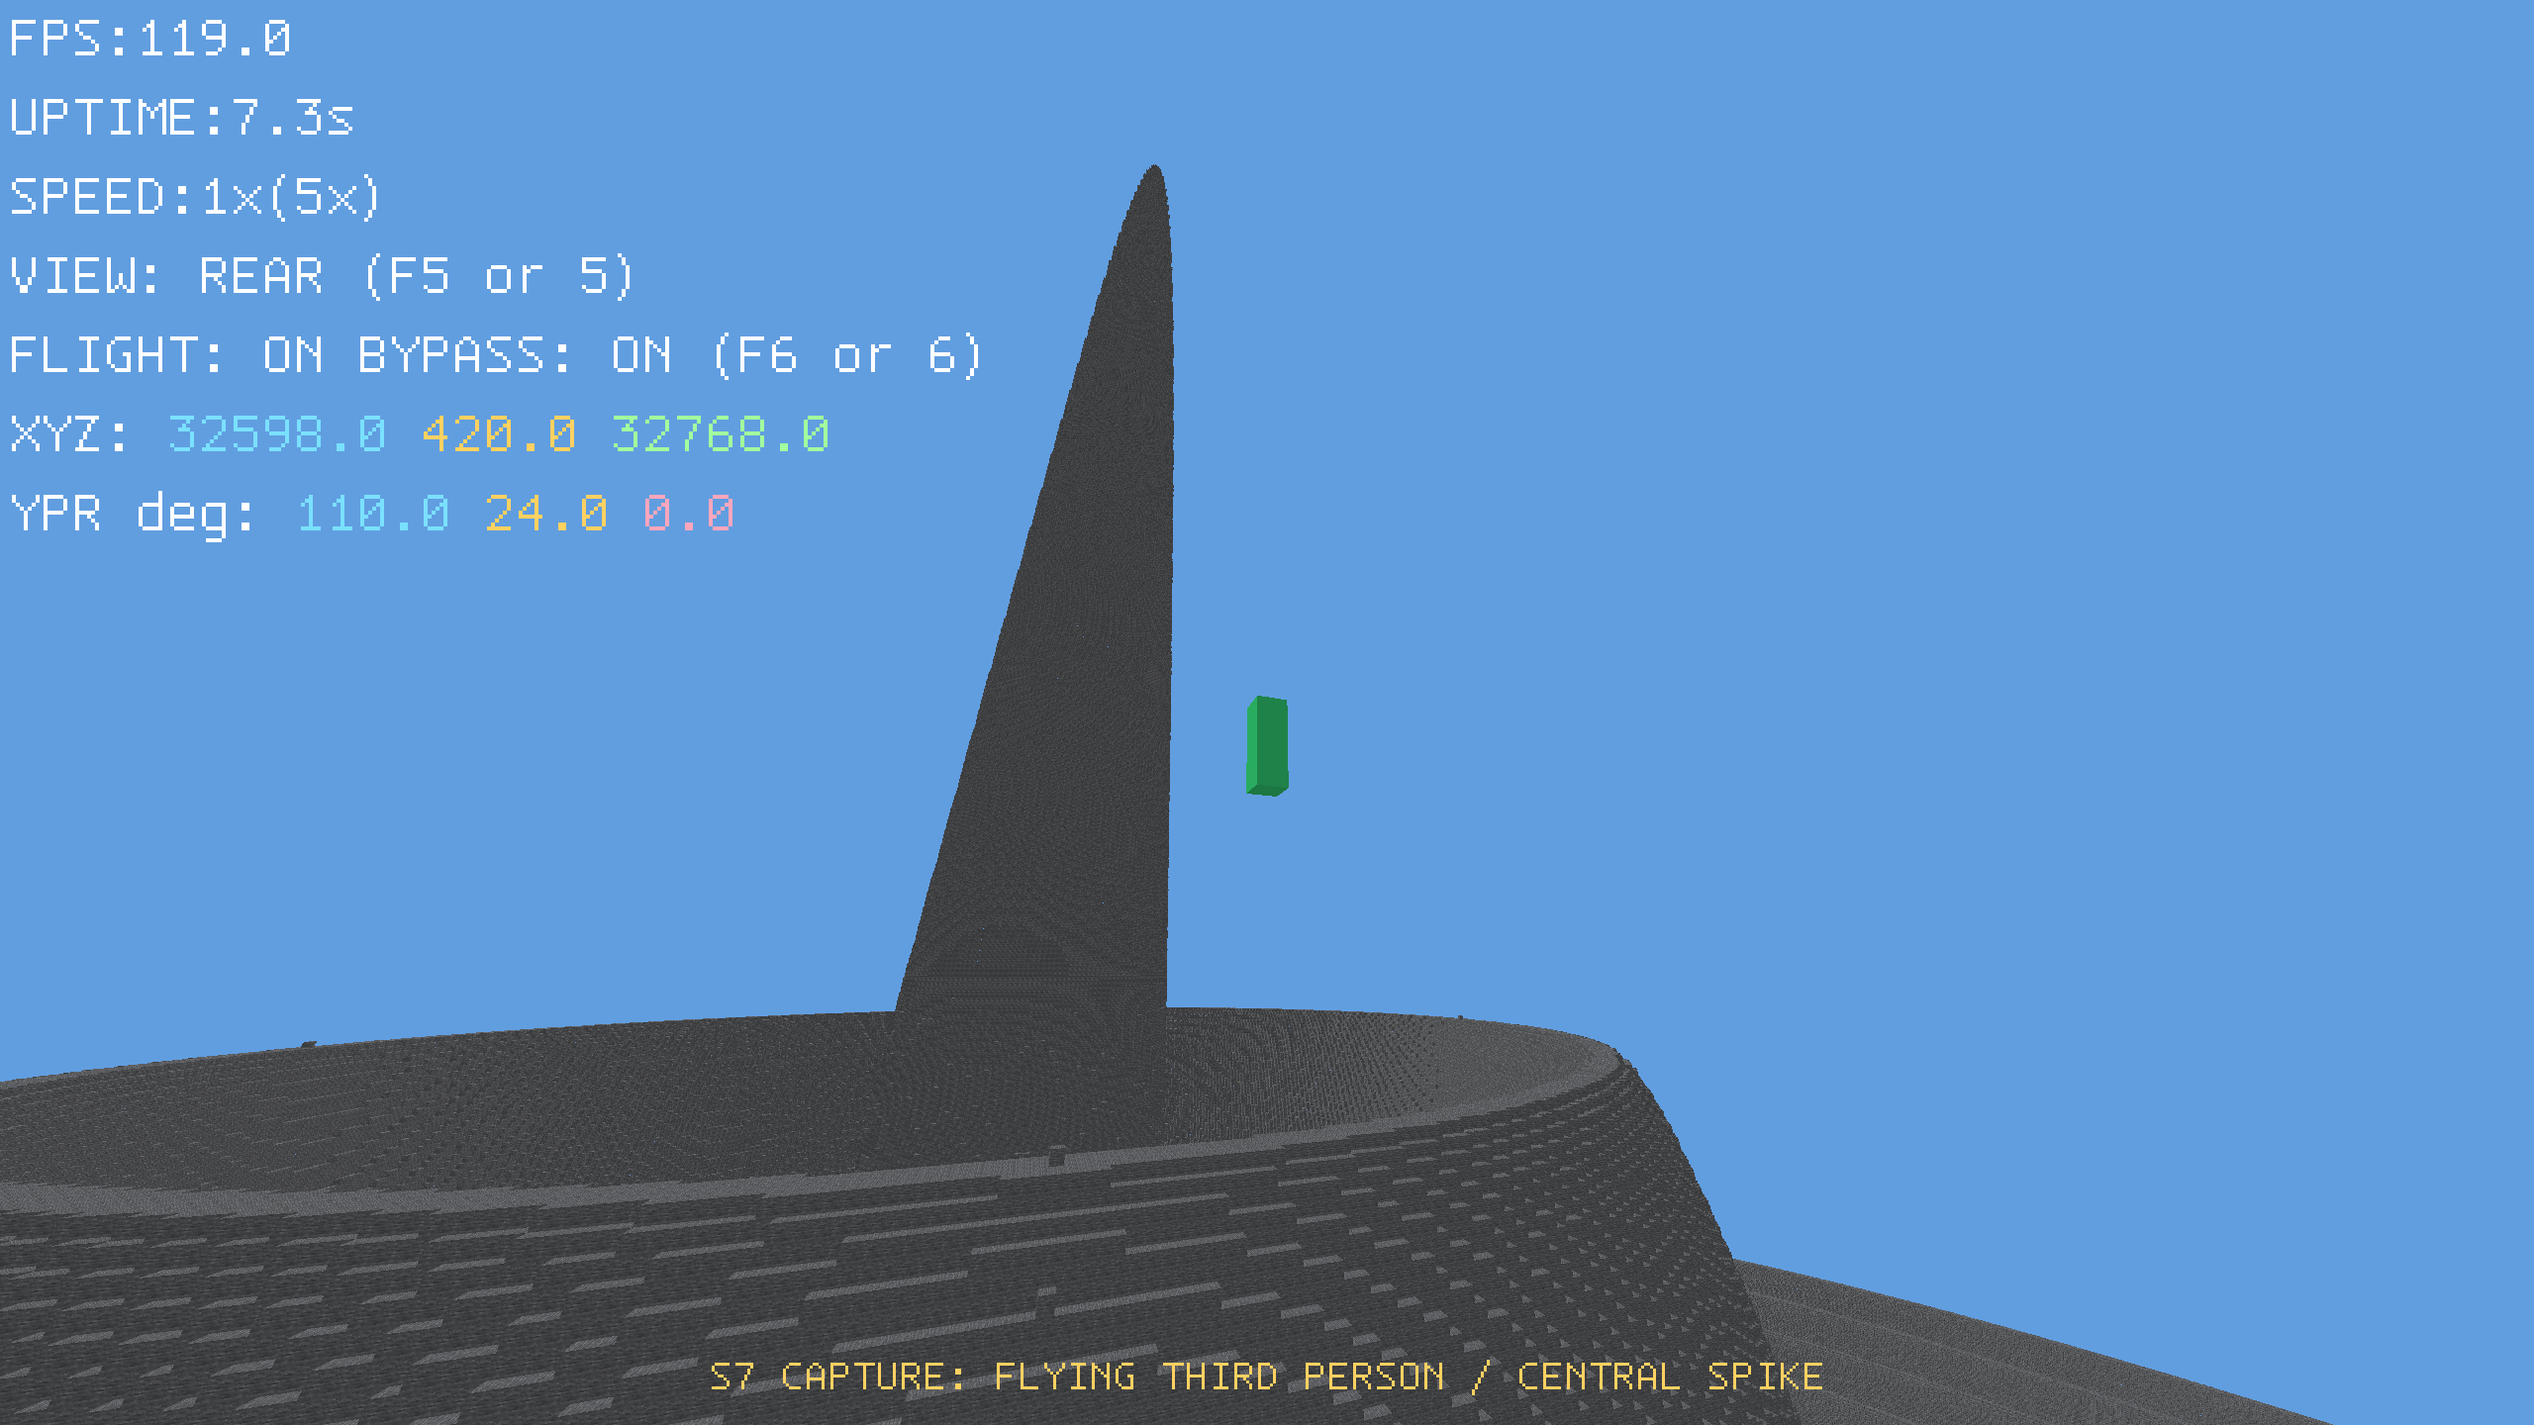
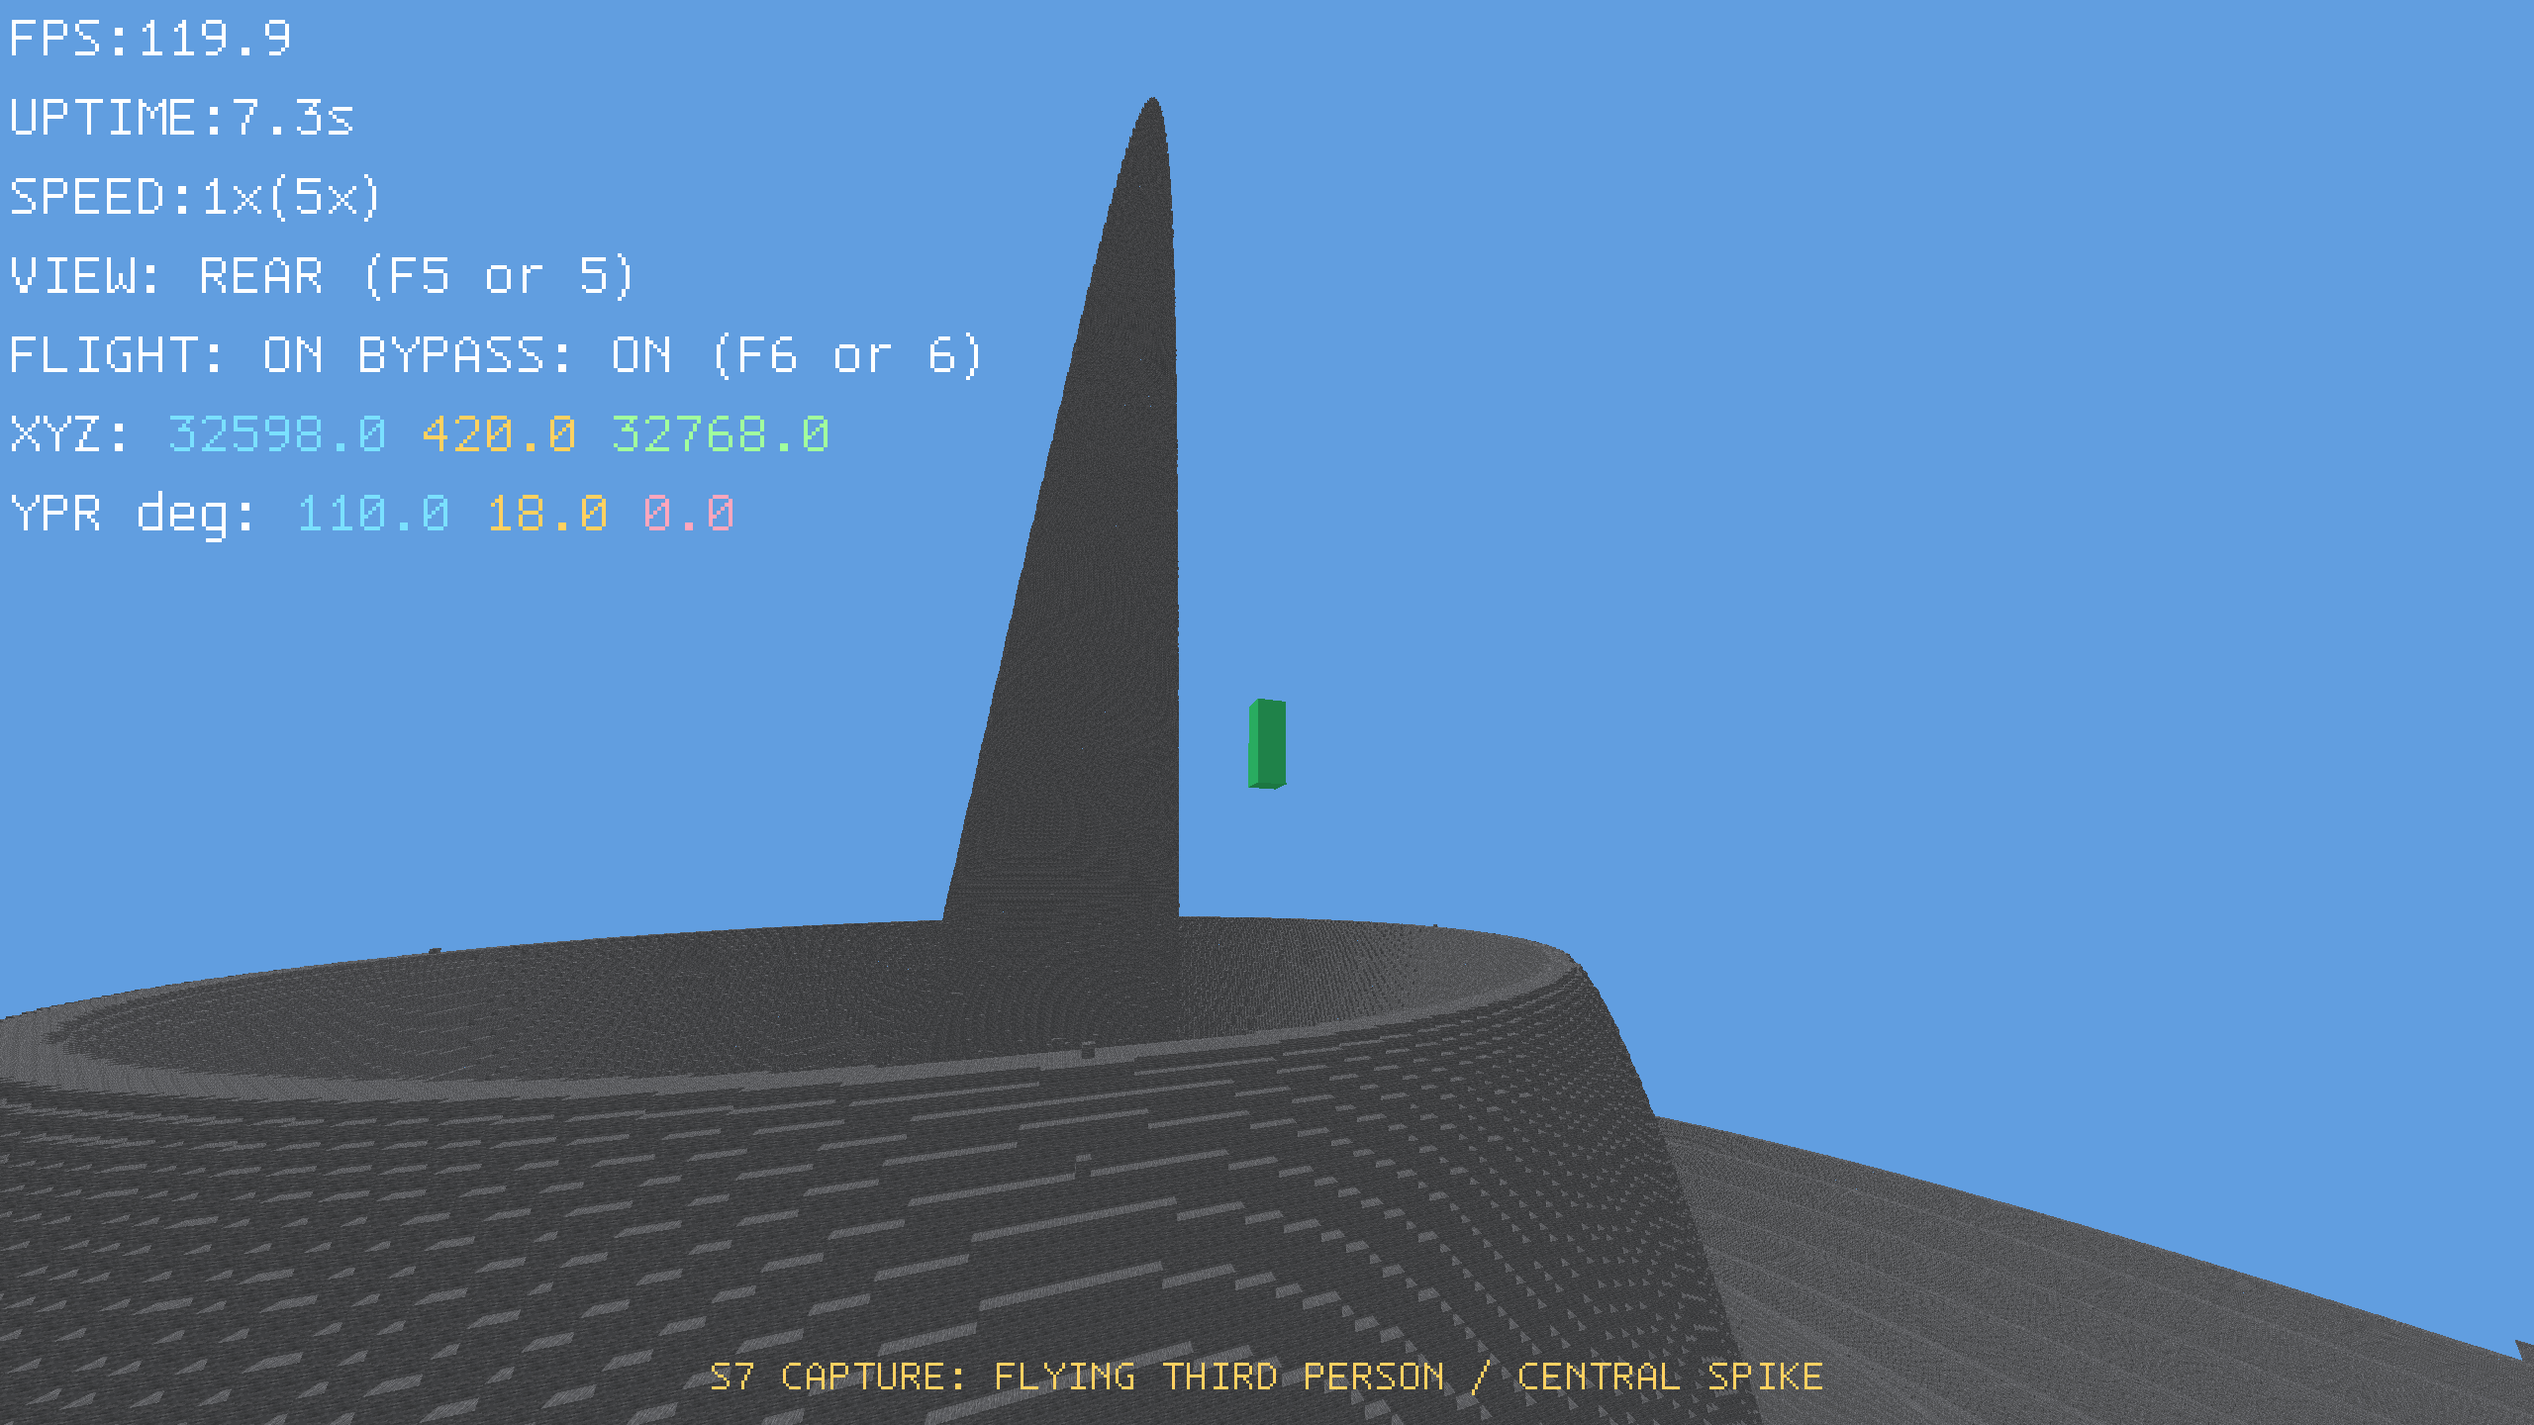
Fix S7 central-spike capture framing
Task-ID: MC-AI-0398

diff --git a/tests/client/player_client_capture_plan_tests.cpp b/tests/client/player_client_capture_plan_tests.cpp
@@ -40,8 +40,8 @@ TEST(PlayerClientCapturePlanTest, FramesTheCentralSpikeAndFirstRingTogether)
     );
     EXPECT_EQ(PREVIOUS_PLAYER_HEIGHT - PLAYER_HEIGHT, 20);
     EXPECT_EQ(plan.look_angles.yaw_degrees, 110.0);
-    EXPECT_EQ(plan.look_angles.pitch_degrees, 24.0);
-    EXPECT_EQ(plan.vertical_fov_degrees, 100.0);
+    EXPECT_EQ(plan.look_angles.pitch_degrees, 18.0);
+    EXPECT_EQ(plan.vertical_fov_degrees, 105.0);
     EXPECT_EQ(plan.rear_camera_distance, 12.0);
 
     shared::TerrainGenerator const terrain;
@@ -67,8 +67,11 @@ TEST(PlayerClientCapturePlanTest, FramesTheCentralSpikeAndFirstRingTogether)
     };
     auto const projection = camera.projectionMatrix(FRAME_WIDTH, FRAME_HEIGHT);
     ASSERT_TRUE(projection.has_value());
+    auto const clip_coordinates = [&](glm::vec4 const world_point) {
+        return *projection * camera.viewMatrix() * world_point;
+    };
     auto const projected = [&](glm::vec4 const world_point) {
-        glm::vec4 const clip = *projection * camera.viewMatrix() * world_point;
+        glm::vec4 const clip = clip_coordinates(world_point);
         return glm::vec3(clip) / clip.w;
     };
     glm::vec3 const peak = projected({
@@ -83,6 +86,27 @@ TEST(PlayerClientCapturePlanTest, FramesTheCentralSpikeAndFirstRingTogether)
         static_cast<float>(far_ring_x), static_cast<float>(WORLD_CENTER),
         static_cast<float>(far_ring_height), 1.0F,
     });
+    static constexpr int32_t BACKGROUND_RADIUS = FIRST_RING_RADIUS * 2;
+    glm::vec4 const background_clip = clip_coordinates({
+        static_cast<float>(WORLD_CENTER), static_cast<float>(WORLD_CENTER - BACKGROUND_RADIUS),
+        static_cast<float>(terrain.heightAt(WORLD_CENTER, WORLD_CENTER - BACKGROUND_RADIUS)), 1.0F,
+    });
+    glm::vec3 const background = glm::vec3(background_clip) / background_clip.w;
+    glm::dvec3 const camera_position = camera.pose().position;
+    double const segment_x = static_cast<double>(WORLD_CENTER) - camera_position.x;
+    double const segment_y = static_cast<double>(WORLD_CENTER - BACKGROUND_RADIUS) - camera_position.y;
+    double const camera_radius_x = camera_position.x - WORLD_CENTER;
+    double const camera_radius_y = camera_position.y - WORLD_CENTER;
+    double const nearest_segment_parameter = std::clamp(
+        -(camera_radius_x * segment_x + camera_radius_y * segment_y)
+            / (segment_x * segment_x + segment_y * segment_y),
+        0.0,
+        1.0
+    );
+    double const nearest_background_sightline_radius = std::hypot(
+        camera_radius_x + nearest_segment_parameter * segment_x,
+        camera_radius_y + nearest_segment_parameter * segment_y
+    );
     EXPECT_GT(near_ring.y, 0.0F);
     EXPECT_GT(far_ring.y, 0.0F);
     EXPECT_LT(peak.y, 0.0F);
@@ -92,6 +116,15 @@ TEST(PlayerClientCapturePlanTest, FramesTheCentralSpikeAndFirstRingTogether)
     EXPECT_LT(std::abs(far_ring.y), 0.9F);
     EXPECT_LT(std::abs(peak.x), 0.9F);
     EXPECT_LT(std::abs(peak.y), 0.9F);
+    EXPECT_GT(background_clip.w, 0.0F);
+    EXPECT_GE(background.z, 0.0F);
+    EXPECT_LE(background.z, 1.0F);
+    EXPECT_GT(terrain.heightAt(WORLD_CENTER, WORLD_CENTER - BACKGROUND_RADIUS), 0U);
+    EXPECT_GT(nearest_background_sightline_radius, FIRST_RING_RADIUS);
+    EXPECT_GT(background.x, 0.25F);
+    EXPECT_LT(background.x, 0.8F);
+    EXPECT_GT(background.y, 0.55F);
+    EXPECT_LT(background.y, 0.85F);
 }
 
 TEST(PlayerClientCapturePlanTest, FramesTheUpperFirstRingAsAnAscendingSlope)

diff --git a/tests/acceptance/player_playtest_capture_test.py b/tests/acceptance/player_playtest_capture_test.py
@@ -79,7 +79,7 @@ class PlayerPlaytestCaptureTest(unittest.TestCase):
         self.assertLessEqual(int(started.group(1)), 900)
         self.assertIn("Capture sweep complete: headings=16", output)
 
-    def assert_labeled_terrain_capture(self, image):
+    def assert_labeled_terrain_capture(self, image, require_background_terrain=False):
         width, height, pixels = read_ppm(image)
         if os.environ.get("MC_S7_REQUIRE_2560X1440") == "1":
             self.assertEqual((width, height), (2560, 1440))
@@ -90,14 +90,21 @@ class PlayerPlaytestCaptureTest(unittest.TestCase):
         terrain_pixels = 0
         white_hud_pixels = 0
         title_pixels = 0
+        beyond_ring_terrain_pixels = 0
         for pixel_index, offset in enumerate(range(0, len(pixels), 3)):
             red, green, blue = pixels[offset:offset + 3]
+            x = pixel_index % width
+            y = pixel_index // width
             if red < 150 and green < 150 and blue < 150:
                 terrain_pixels += 1
                 if len(colors) < 512:
                     colors.add((red, green, blue))
-            x = pixel_index % width
-            y = pixel_index // width
+                if (
+                    require_background_terrain
+                    and x >= 3 * width // 4
+                    and 78 * height // 100 <= y < 94 * height // 100
+                ):
+                    beyond_ring_terrain_pixels += 1
             if x < width // 3 and y < height // 3 and red > 220 and green > 220 and blue > 220:
                 white_hud_pixels += 1
             if red > 200 and green > 150 and blue < 180:
@@ -109,6 +116,11 @@ class PlayerPlaytestCaptureTest(unittest.TestCase):
         self.assertGreater(len(colors), 24)
         self.assertGreater(white_hud_pixels, 100)
         self.assertGreater(title_pixels, 100)
+        if require_background_terrain:
+            background_region_area = (width - 3 * width // 4) * (
+                94 * height // 100 - 78 * height // 100
+            )
+            self.assertGreater(beyond_ring_terrain_pixels, background_region_area // 10)
 
     def test_real_networked_client_renders_terrain_texture_and_hud(self):
         port = free_udp_port()
@@ -143,7 +155,7 @@ class PlayerPlaytestCaptureTest(unittest.TestCase):
                 self.assertEqual(client.returncode, 0, client.stdout + client.stderr)
                 self.assertLess(time.monotonic() - started, 1200.0)
                 self.assert_full_radius_sweep(client, expected_tiles=16241)
-                self.assert_labeled_terrain_capture(image)
+                self.assert_labeled_terrain_capture(image, require_background_terrain=True)
             finally:
                 if server.poll() is None:
                     server.terminate()

diff --git a/src/client/PlayerClient.cpp b/src/client/PlayerClient.cpp
@@ -53,8 +53,8 @@ PlayerClientCapturePlan playerClientCapturePlan(PlayerClientCapturePreset const 
     switch (preset) {
     case PlayerClientCapturePreset::CentralSpike:
         return { preset, "central-spike", "S7 CAPTURE: FLYING THIRD PERSON / CENTRAL SPIKE",
-            CameraPerspective::ThirdPersonRear, { .yaw_degrees = 110.0, .pitch_degrees = 24.0 },
-            { .x = 32'598, .y = 32'768, .z = 420 }, std::nullopt, 100.0, 12.0 };
+            CameraPerspective::ThirdPersonRear, { .yaw_degrees = 110.0, .pitch_degrees = 18.0 },
+            { .x = 32'598, .y = 32'768, .z = 420 }, std::nullopt, 105.0, 12.0 };
     case PlayerClientCapturePreset::TrenchFirstSpike:
         return { preset, "trench-first-spike", "S7 CAPTURE: TRENCH / FIRST SPIKE",
             CameraPerspective::ThirdPersonRear, { .yaw_degrees = -90.0, .pitch_degrees = 10.0 },

diff --git a/docs/version_history/EarlyDev 0.1/EarlyDev 0.1.0 Initiation.md b/docs/version_history/EarlyDev 0.1/EarlyDev 0.1.0 Initiation.md
@@ -90,13 +90,13 @@ S7 adds server-authoritative permissions, movement, player presentation, and lon
 
 ![First-person view at horizontal coordinates X/Z 0,0](images/earlydev-0.1.0-7-first-person-origin.png)
 
[2 lines of base64/hex data omitted]
 
[2 lines of base64/hex data omitted]
 
 | Scene | Image | Dimensions | SHA-256 |
 |---|---|---:|---|
[5 lines of base64/hex data omitted]

diff --git a/docs/ai/tasks/MC-AI-0398.md b/docs/ai/tasks/MC-AI-0398.md
@@ -1,0 +1,55 @@
+# MC-AI-0398 — Show terrain beyond the first ring in the S7 central-spike capture
+
+Generated by `python3 script/ai_tasks.py render`; edit `backlog.json`, then rerender.
+
+| Field | Value |
+|---|---|
+| ID | MC-AI-0398 |
+| Level | basic |
+| Parent | MC-AI-0038 |
+| Status | done |
+| Finalized | true |
+| Priority | P1 |
+| Complexity | medium |
+| Created | 2026-10-09 |
+| Resolved | 2026-10-09 |
+| Route | luna |
+| Milestone | ED-010-S7 |
+| Kind | bug |
+| Baseline commit | be9bc9e43d64ab3768dda872281c9fe24aadd600 |
+| Motivation | The accepted central-spike image shows the spike and ring but only sky beyond them; the current projection test does not detect the missing terrain, so the released evidence does not satisfy the agreed screenshot acceptance. |
+| Pre-existing context | This is a correction to an existing S7 screenshot requirement, not additional product scope. Preserve the 2560x1440 Mac capture, render distance 72, requested closer/lower elevated viewpoint, fully loaded terrain, full spike, most of the first ring, visible player not covering the spike, and the centered-below label. Change only the central image and its provenance/version-history hash; do not repeat or alter the trench capture. |
+| Acceptance | The capture plan and regression test prove that the central spike, most of the first ring, and terrain beyond the landform are simultaneously in-frame at the approved 2560x1440 framing, without relying on the screenshot alone. Regenerate and visually inspect only the central-spike capture after the full 72-chunk scene is loaded; preserve the requested flying third-person player visibility, closer/lower elevated composition, and centered-below label. Update the central PNG hash and its provenance/version-history record. Run the focused capture-plan test and actual central capture; do not modify the other three screenshots. |
+| Evidence | Debug PlayerClientCapturePlanTest.FramesTheCentralSpikeAndFirstRingTogether passed 1/1; its projection regression verifies a radius-256 terrain sample is on-screen, has positive clip-W, lies within perspectiveRH\_ZO depth \[0,1\], and its sightline clears the first ring. Release mc\_main SHA-256 b0e8ffa028f46412688ec856677e06b0072ffe44cca71bf81064fa726033c75e. Host-context RendererSmokeTest passed 1/1 in 2.42 s. One-server/one-client macOS Release PlayerPlaytestCaptureTest.test\_real\_networked\_client\_renders\_terrain\_texture\_and\_hud passed 1/1 in 8.729 s at 2560x1440 and render distance 72, including full 16-heading/16,241-tile readiness; the screenshot regression requires more than 10% dark terrain pixels in the lower-right region beyond the first ring. The visually inspected central PNG SHA-256 is 09f367efe433ee001de7157fe426d0e924690c7f35658bb92835e699d06286af. Only the central image changed; the other three retained screenshots still match their recorded hashes. |
+| Blocker | — |
+| Owner | Codex |
+
+## Plan
+
+- Clarify acceptance and implementation steps.
+- Widen the central view and retain the requested close, lower elevated composition.
+- Add projected-geometry and captured-pixel checks for terrain beyond the first ring.
+- Recapture and visually verify only the central scene, then update its provenance.
+
+## Children
+
+- None
+
+## Product changes
+
+- None
+
+## Code changes
+
+- Adjusted only the central capture pitch/FOV; added a radius-256 terrain projection regression and a beyond-ring screenshot-pixel assertion.
+- Hardened the radius-256 projection regression to assert positive clip-W and Vulkan zero-to-one depth in addition to screen bounds and ring clearance.
+
+## Resolution
+
+- Changes: Changed only the central capture framing, added geometric and screenshot-pixel regressions for visible terrain beyond the first ring, recaptured the full-load scene, visually inspected it, and refreshed its version-history provenance/hash.
+
+## Commits
+
+- No imported commits
+
+Commit lookup: python3 script/ai_history.py show MC-AI-0398

diff --git a/docs/ai/BACKLOG.md b/docs/ai/BACKLOG.md
@@ -361,3 +361,4 @@ Generated by `python3 script/ai_tasks.py render`; edit [backlog.json](backlog.js
 |MC-AI-0395|Prevent swapped policy capability query identifiers|basic|MC-AI-0038|bug|done|P0|low|2026-10-09|luna|S7|—|
 |MC-AI-0396|Strong-type Android touch pointer IDs to satisfy strict clang-tidy|basic|MC-AI-0038|bug|done|P0|medium|2026-10-09|luna|ED-010-S7|—|
 |MC-AI-0397|Remove conflicting reviewer-count guidance from MC-AI-0393 plan|basic|MC-AI-0038|chore|done|P0|low|2026-10-09|luna|S7|—|
+|MC-AI-0398|Show terrain beyond the first ring in the S7 central-spike capture|basic|MC-AI-0038|bug|done|P1|medium|2026-10-09|luna|ED-010-S7|—|

diff --git a/docs/ai/tasks/MC-AI-0038.md b/docs/ai/tasks/MC-AI-0038.md
@@ -31,7 +31,7 @@ Generated by `python3 script/ai_tasks.py render`; edit `backlog.json`, then rere
 
 ## Children
 
-- All 151 child tasks are listed in the [canonical backlog](../BACKLOG.md).
+- All 152 child tasks are listed in the [canonical backlog](../BACKLOG.md).
 
 ## Product changes
 
